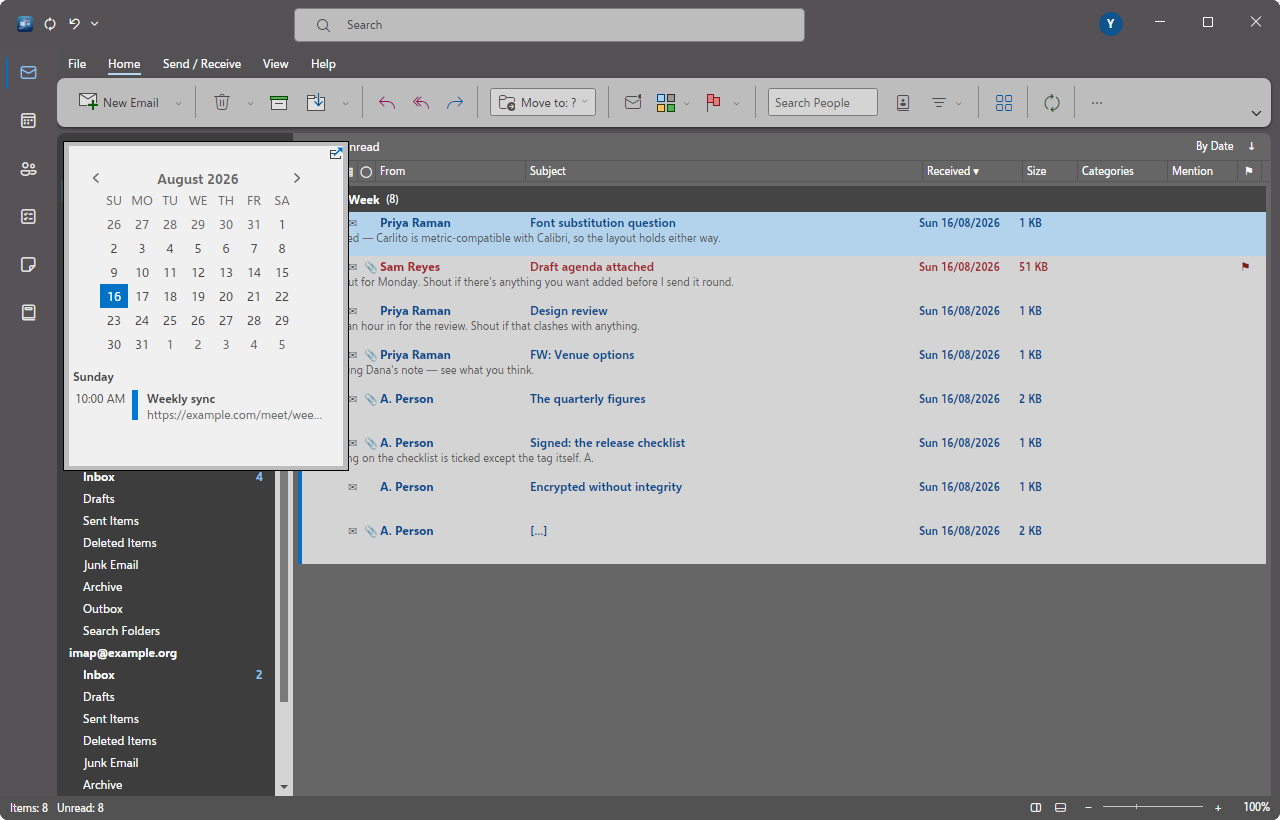
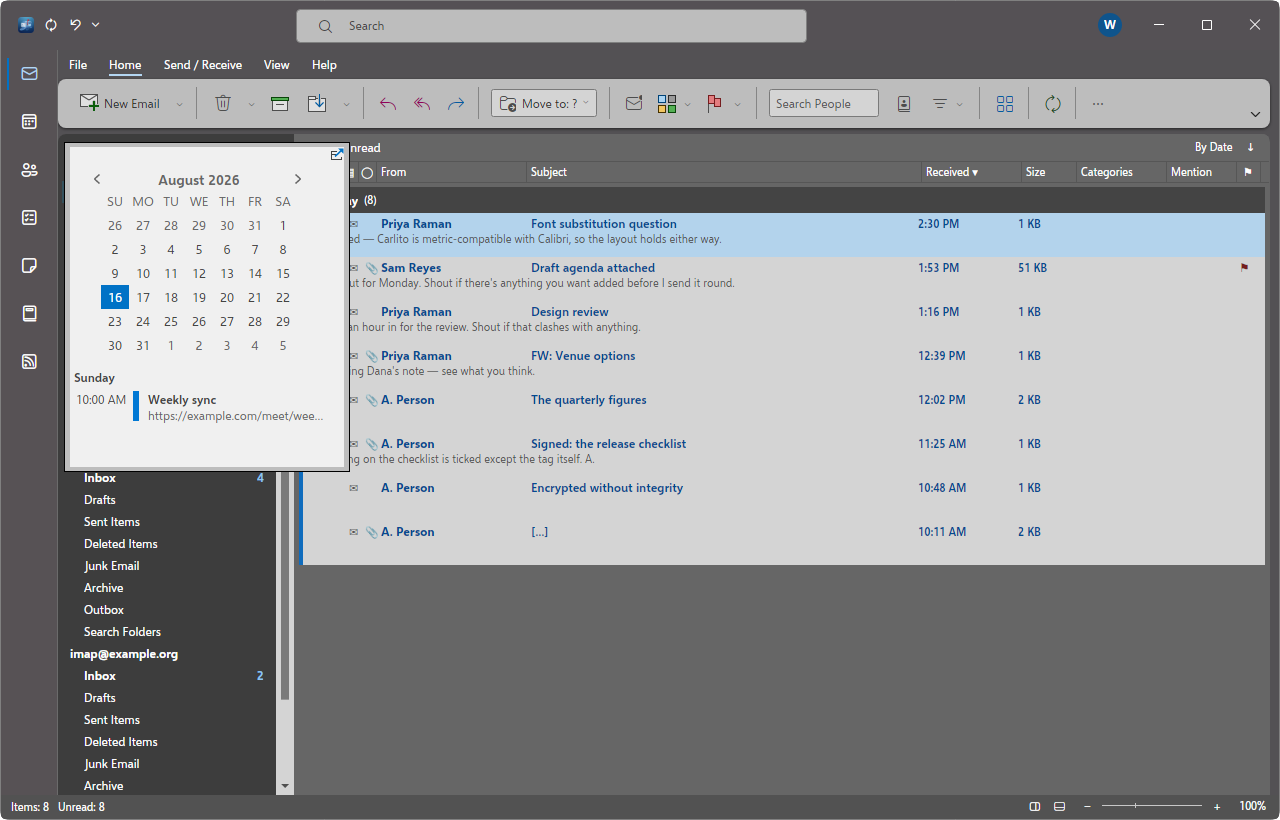
Every window wears a hairline its theme chooses
A compose window over the White shell was invisible — nothing marked
where one window ended and the other began. The reference draws a 1px
line round every window and varies it by theme; measured off all four
captures, it is #808080 on Colorful, White and Dark Gray and #7A7A7A on
Black. One token and one stylesheet rule now put that line on every
window through the shared shape wrapper — shell, compose, message,
appointment, contact, and both dialog families — following the corner
radius, and dropping away maximized, where there is no edge to tell
apart. Drawn by the application rather than borrowed from the
compositor, so it follows the theme, not the desktop.

The docs screenshots are regenerated together with the chrome change,
picking up the line and the surfaces the audit's own phases reshaped.

diff --git a/src/Mailbox.Theming/Themes/OfficeThemes.cs b/src/Mailbox.Theming/Themes/OfficeThemes.cs
@@ -155,6 +155,7 @@ public static class OfficeThemes
 
         // The title bar alone carries the hue. The tab strip below it is light, which is what
         // an earlier guess got wrong — it had the blue running down through the tab strip.
+        t.Set(TokenKeys.WindowShape.Border, "#808080");
         t.Set(TokenKeys.TitleBar.Background, "{palette.brand.titlebar}");
         t.Set(TokenKeys.TitleBar.Foreground, "{palette.neutral.white}");
         t.Set(TokenKeys.TitleBar.Search, "{palette.brand.search}");
@@ -233,6 +234,7 @@ public static class OfficeThemes
 
         // Not actually white: the title bar is the same pale blue-grey as the tab strip, and
         // only the ribbon and the content behind it are truly white.
+        t.Set(TokenKeys.WindowShape.Border, "#808080");
         t.Set(TokenKeys.TitleBar.Background, "#E9EEF2");
         t.Set(TokenKeys.TitleBar.Foreground, "#242424");
         t.Set(TokenKeys.TitleBar.Search, "#FAFAFA");
@@ -442,6 +444,7 @@ public static class OfficeThemes
         t.Set(TokenKeys.Journal.EntryText, "#000000");
         t.Set(TokenKeys.Journal.EntryBorder, "#A19F9D");
 
+        t.Set(TokenKeys.WindowShape.Border, "#808080");
         t.Set(TokenKeys.TitleBar.Background, "{palette.chrome.titlebar}");
         t.Set(TokenKeys.TitleBar.Foreground, "{palette.neutral.white}");
         t.Set(TokenKeys.TitleBar.Search, "#BDBDBD");
@@ -636,6 +639,7 @@ public static class OfficeThemes
 
         // Measured. The chrome is not neutral black — it carries a blue cast, while the rail
         // goes the other way and is warm.
+        t.Set(TokenKeys.WindowShape.Border, "#7A7A7A");
         t.Set(TokenKeys.TitleBar.Background, "#1B2127");
         t.Set(TokenKeys.TitleBar.Foreground, "#FFFFFF");
         t.Set(TokenKeys.TitleBar.Search, "#1F1F1F");

diff --git a/src/Mailbox.Theming/Tokens/TokenKeys.cs b/src/Mailbox.Theming/Tokens/TokenKeys.cs
@@ -133,6 +133,17 @@ public static class TokenKeys
         public static readonly IReadOnlyList<string> All = [Ribbon, CommandBar];
     }
 
+    /// <summary>The window's own shape — what stands between it and whatever is behind it.</summary>
+    public static class WindowShape
+    {
+        /// <summary>
+        /// The hairline round every window's edge, measured off the reference's four themes.
+        /// It is what tells a light window from the light window under it: without it a compose
+        /// window over the White shell simply vanished into it.
+        /// </summary>
+        public const string Border = "window.border";
+    }
+
     public static class TitleBar
     {
         public const string Background = "titlebar.background";
@@ -899,6 +910,7 @@ public static class TokenKeys
         Status.Success, Status.Warning, Status.Danger, Status.Info,
         .. Tags.All,
         .. People.All,
+        WindowShape.Border,
         TitleBar.Background, TitleBar.Foreground, TitleBar.Search,
         TitleBar.SearchBorder, TitleBar.SearchText, TitleBar.Height,
         TitleBar.SearchWidth, TitleBar.SearchHeight, TitleBar.SearchOffset,

diff --git a/src/Mailbox.App/Views/WindowFrame.cs b/src/Mailbox.App/Views/WindowFrame.cs
@@ -100,6 +100,10 @@ internal static class WindowFrame
             CornerRadius = new CornerRadius(RibbonMetrics.BodyCornerRadius),
             ClipToBounds = true,
             Child = content,
+
+            // The hairline round the window, by class so one stylesheet rule owns it — and
+            // drops it when the window is maximized, where there is no edge to tell apart.
+            Classes = { "windowshape" },
         };
         border[!Border.BackgroundProperty] = new DynamicResourceExtension(background);
 
